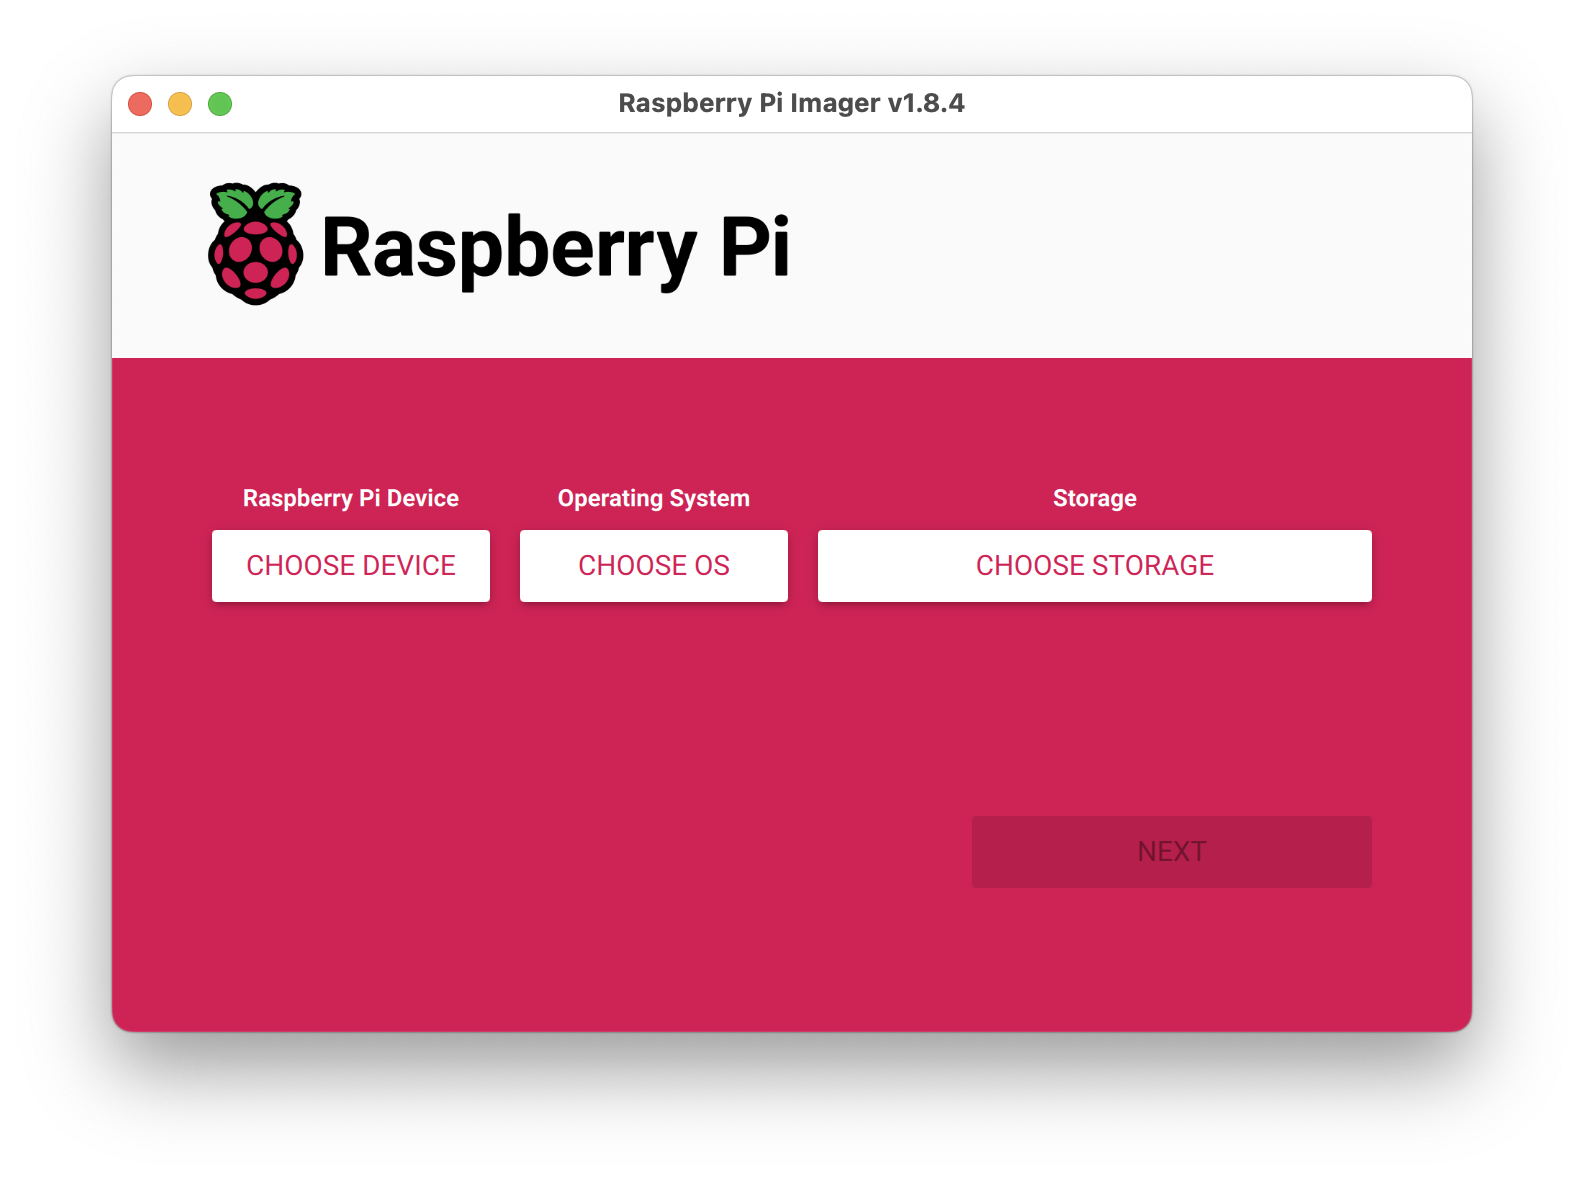
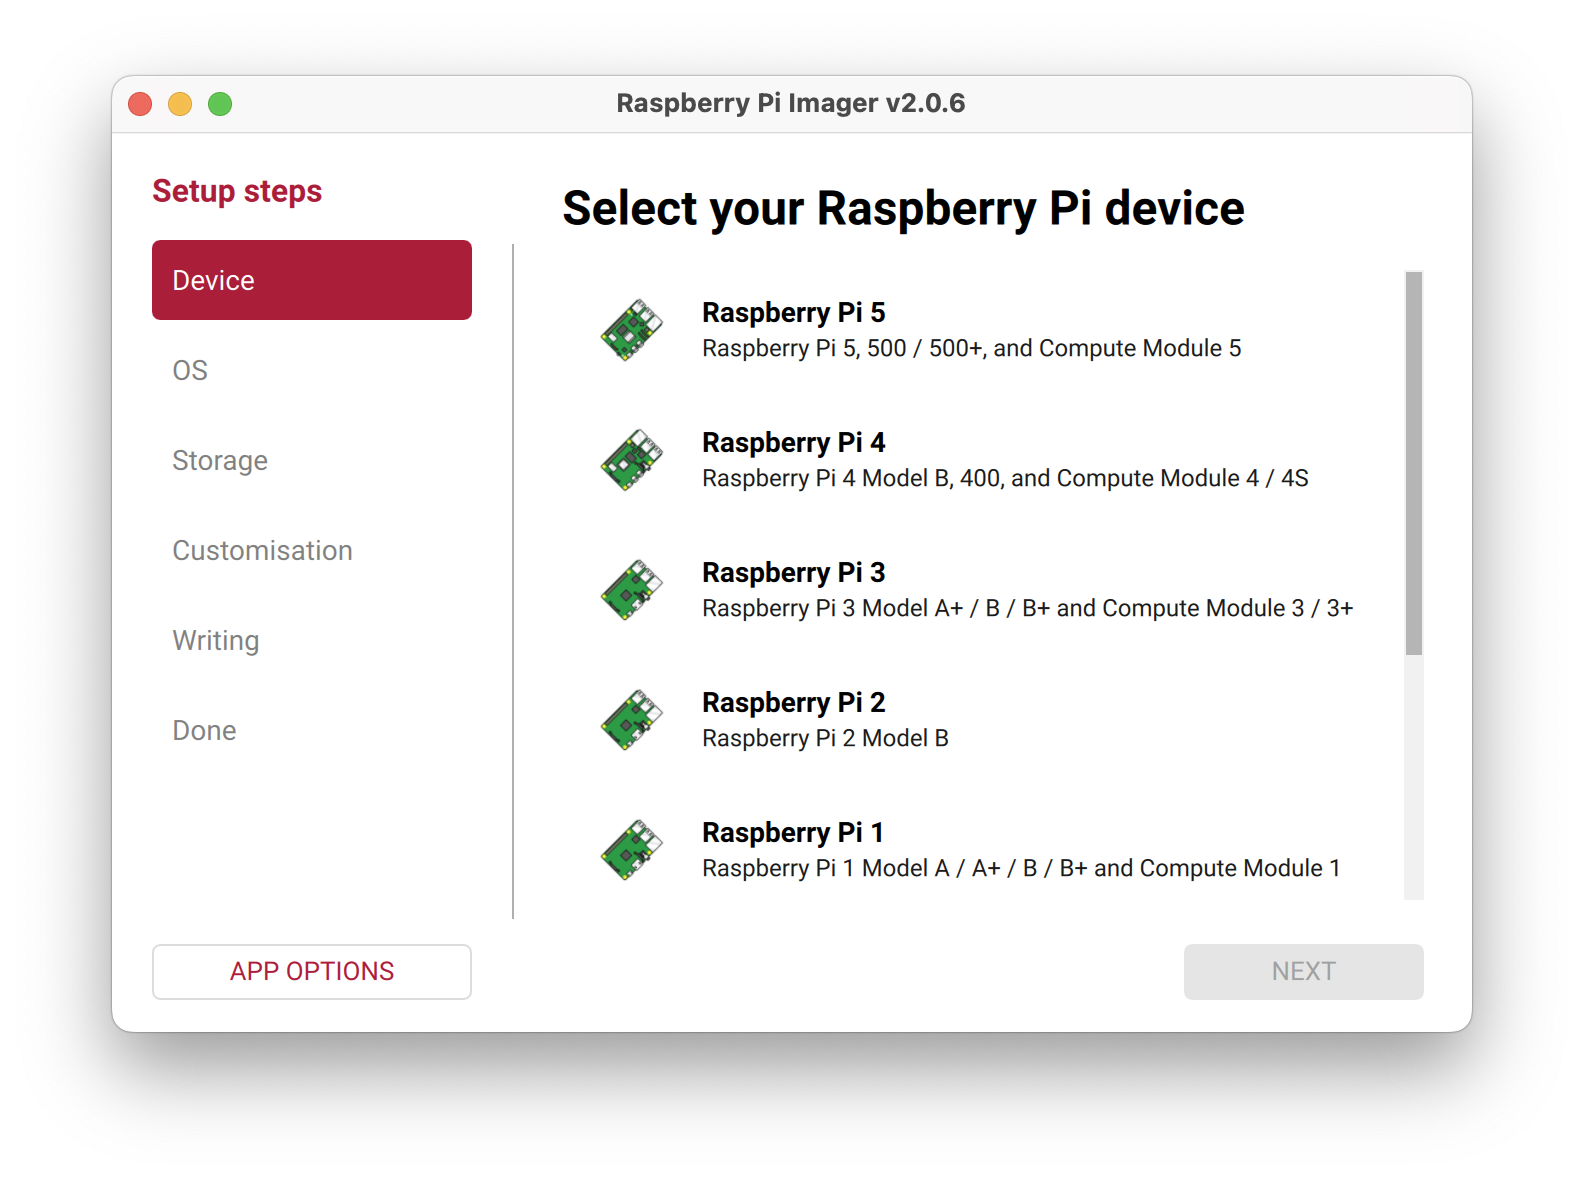
Update disk image copy instructions (english)

diff --git a/content/en/help/copy-the-disk-image/index.md b/content/en/help/copy-the-disk-image/index.md
@@ -4,7 +4,7 @@ authors:
   - Nicolas Martignoni
 type: kb
 date: 2017-04-20
-lastmod: 2023-12-26
+lastmod: 2026-02-18
 description: To copy the MoodleBox disk image to an SD card, simply download the Raspberry Pi Imager utility and follow these instructions.
 slug: copy-the-disk-image-on-a-sd-card
 categories_weight: 4
@@ -21,19 +21,16 @@ To copy the MoodleBox system on your microSD card, we recommend to use the [Rasp
 1. Download the latest version of the [Raspberry Pi Imager][imager] utility and install it on your computer.
 1. Launch the _Raspberry Pi Imager_ application.
    {{< figure src="rpi-imager-en.png" alt="Raspberry Pi Imager" class="centered-image" width="700" >}}
-1. Click __Choose Device__ under _Raspberry Pi Device_ and select your model of Raspberry Pi.
-1. Click __Choose OS__ under _Operating System_, scroll down and click __Other specific purpose OS__.
-1. Scroll down, click __MoodleBox__, then choose the latest MoodleBox disk image version.
-1. Click __Choose Storage__ and select your microSD card.
-1. Click __Next__ button, then __Edit settings__ on the next dialog and answer _No_ to the _Would you like to prefill the wifi password from the system keychain?_ question.
-1. On the _General_ tab of the next window, specify the settings you want for your MoodleBox:
-   - Check box __Set hostname__ and indicate the hostname, e.g. _moodlebox_
-   - Check box __Set username and password__ and indicate the __username__ et the __password__, e.g. _moodlebox_ and _Moodlebox4$_
-   - Do __not__ check the remaining boxes (_Configure wireless LAN_ and _Set locale settings_)
-   {{< figure src="rpi-imager-os-custom-en.png" alt="Raspberry Pi Imager settings" class="centered-image" width="700" >}}
-1. On the _Services_ tab, check box __Enable SSH__ and the option __Use password authentication__
-1. Click on __Save__ button and answer __Yes__ to the question __Would you like to apply OS customisation setting?__
-1. Answer __Yes__ when asked if you want to continue, erasing all data on your SD card.
+1. Select your model of Raspberry Pi, then click __Next__ to the  _OS_ tab, scroll down and click __Other specific-purpose OS__.
+1. Scroll down, click __MoodleBox__, choose the latest MoodleBox disk image version and click __Next__ to the __Storage__ tab and select your microSD card.
+1. Click __Next__ to the __Customisation__ tab, and specify the settings you want for your MoodleBox in the following windows. Indicate, if needed
+   - the hostname, e.g. _moodlebox_,
+   - the localisation settings (city, time zone and keyboard layout),
+   - a username and a password, e.g. _moodlebox_ and _Moodlebox4$_,
+   - the SSID and password of your local wireless network,
+   - enable SSH and click the radio button __Use password authentication__
+1. In the tab __Writing__ click the __Write__ button, and when asked if you want to continue, erasing all data on your SD card, click on __I understand, erase and write__.
+   {{< figure src="rpi-imager-warning-en.png" alt="Raspberry Pi Imager Warning" class="centered-image" width="700" >}}
 
 The application __Raspberry Pi Imager__ will now download and flash the latest version of the MoodleBox disk image to your microSD card. This may take several minutes depending on the speed of your Internet connection and SD card.
 
